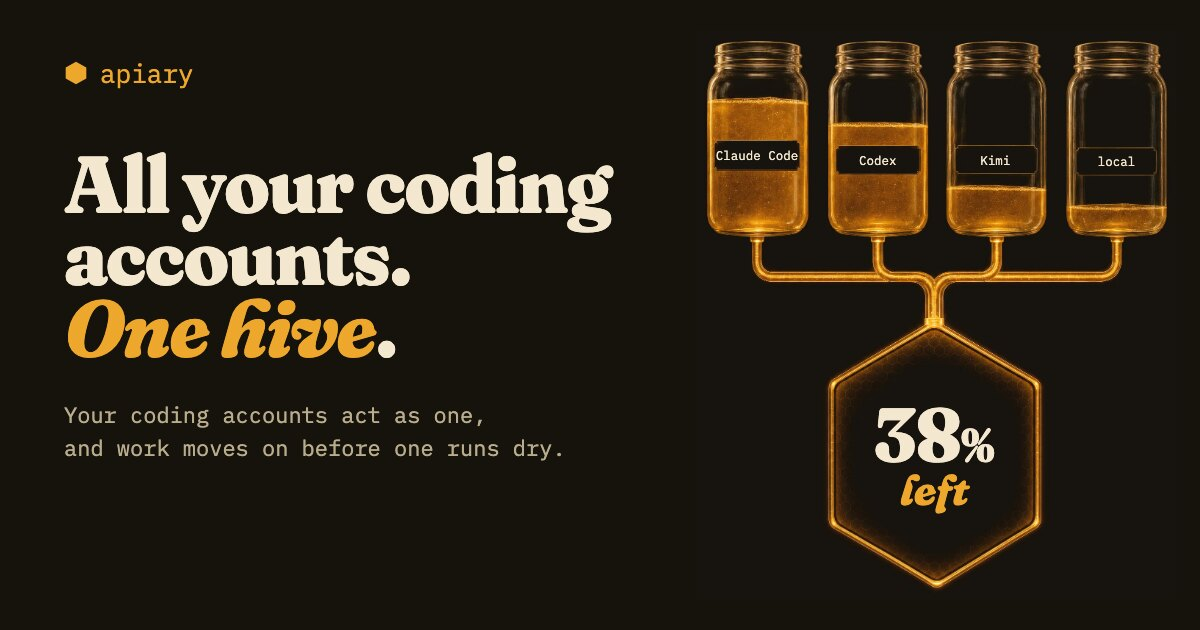
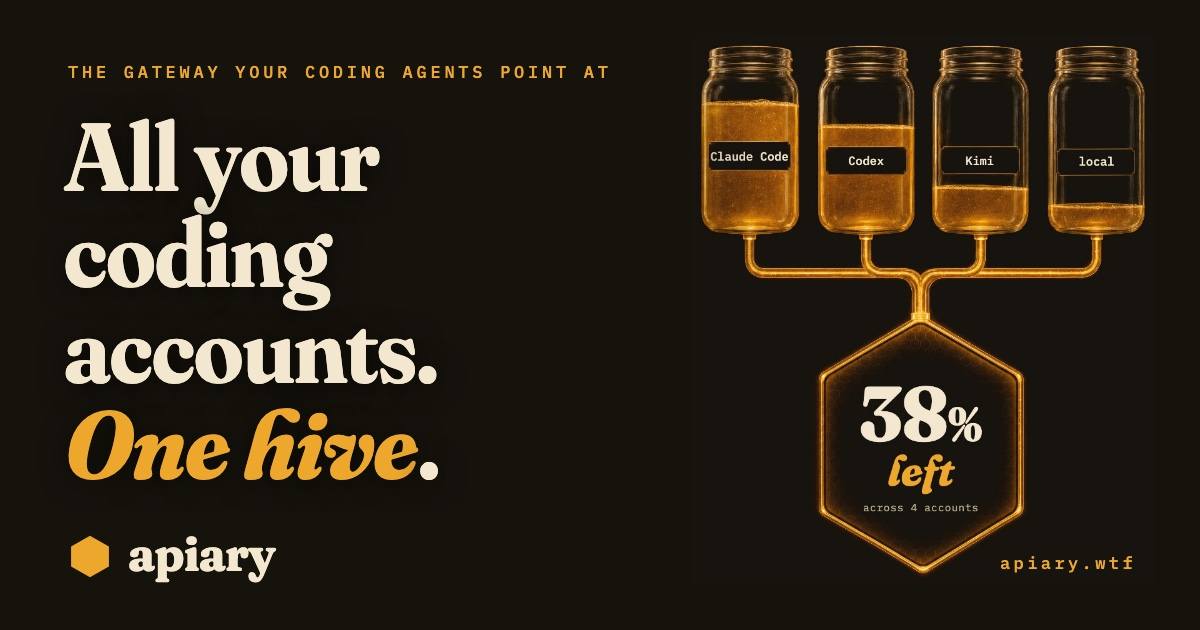
site: the front door's card joins the family, and cards keep up with pages
The front door's link-preview card is now made like every other page's:
art in og/art/front.jpg, a row in card.html, rendered by render.sh, which
now uses Playwright's own browser. AGENTS.md and the site README say a
change to a public page updates its card in the same commit, and
og_pages_test.go holds the floor: full og tags, a 1200x630 card of the
page's own, and alt text that quotes the page's current headline.

Claude-Session: https://claude.ai/code/session_017QRfxX9X5KKL28VWkkbSTT

diff --git a/site/static/index.html b/site/static/index.html
@@ -14,7 +14,7 @@
 <meta property="og:image" content="https://apiary.wtf/og/front.jpg">
 <meta property="og:image:width" content="1200">
 <meta property="og:image:height" content="630">
-<meta property="og:image:alt" content="“All your coding accounts. One hive.” Four honey jars feeding one hexagon.">
+<meta property="og:image:alt" content="“All your coding accounts. One hive.” Apiary, over four honey jars feeding one hexagon that reads 38% left.">
 <meta name="twitter:card" content="summary_large_image">
 <meta name="theme-color" content="#16130d">
 <link rel="preconnect" href="https://fonts.googleapis.com">

diff --git a/site/og/card.html b/site/og/card.html
@@ -31,6 +31,8 @@ h1 em{font-style:italic;font-weight:750;color:var(--honey)}
 <script>
 // Each page's card: its art (art/<name>.jpg), kicker and headline. A new page adds a row here and its art.
 const PAGES = {
+  front: {kicker: "The gateway your coding agents point at", size: 96,
+         headline: "All your<br>coding<br>accounts.<br><em>One hive</em>."},
   home: {kicker: "Pooled LLM capacity · owned by the hive", size: 92,
          headline: "Your idle LLM<br>hours are<br>someone else’s<br><em>crunch</em>."},
   plan: {kicker: "Business plan · November 2026", size: 108,

diff --git a/site/og_pages_test.go b/site/og_pages_test.go
@@ -1,0 +1,110 @@
+package main
+
+import (
+	"bytes"
+	"html"
+	"image/jpeg"
+	"io/fs"
+	"path"
+	"regexp"
+	"strings"
+	"testing"
+)
+
+// Every public page has its own link-preview card, and the card keeps up with
+// the page: the tags are complete, the card exists at 1200x630, and its alt
+// text quotes the page's headline. Change a headline and this fails until the
+// card (site/og, render.sh) and its tags are redone in the same commit.
+func TestEveryPageHasItsOwnCurrentPreviewCard(t *testing.T) {
+	pages, err := fs.Sub(static, "static")
+	if err != nil {
+		t.Fatal(err)
+	}
+	meta := func(doc, attr, name string) string {
+		m := regexp.MustCompile(`<meta ` + attr + `="` + regexp.QuoteMeta(name) + `" content="([^"]*)"`).FindStringSubmatch(doc)
+		if m == nil {
+			return ""
+		}
+		return html.UnescapeString(m[1])
+	}
+	first := func(doc, re string) string {
+		m := regexp.MustCompile(re).FindStringSubmatch(doc)
+		if m == nil {
+			return ""
+		}
+		return m[1]
+	}
+	cardOf := map[string]string{}
+	err = fs.WalkDir(pages, ".", func(p string, d fs.DirEntry, err error) error {
+		if err != nil || d.IsDir() || !strings.HasSuffix(p, ".html") {
+			return err
+		}
+		b, _ := fs.ReadFile(pages, p)
+		doc := string(b)
+		want := "https://apiary.wtf/" + strings.TrimSuffix(strings.TrimSuffix(p, "index.html"), "/")
+		if !strings.HasSuffix(want, "/") {
+			want += "/"
+		}
+		title := html.UnescapeString(first(doc, `<title>([^<]*)</title>`))
+		if title == "" || meta(doc, "property", "og:title") != title {
+			t.Errorf("%s: og:title %q, want the page's <title> %q", p, meta(doc, "property", "og:title"), title)
+		}
+		if c := first(doc, `<link rel="canonical" href="([^"]*)"`); c != want || meta(doc, "property", "og:url") != want {
+			t.Errorf("%s: canonical %q and og:url %q, want both %q", p, c, meta(doc, "property", "og:url"), want)
+		}
+		for _, name := range []string{"og:description", "og:site_name", "og:type"} {
+			if meta(doc, "property", name) == "" {
+				t.Errorf("%s: no %s", p, name)
+			}
+		}
+		if meta(doc, "name", "twitter:card") != "summary_large_image" {
+			t.Errorf("%s: twitter:card should be summary_large_image", p)
+		}
+
+		img := meta(doc, "property", "og:image")
+		card, ok := strings.CutPrefix(img, "https://apiary.wtf/")
+		if !ok || !strings.HasPrefix(card, "og/") || path.Ext(card) != ".jpg" {
+			t.Errorf("%s: og:image %q, want https://apiary.wtf/og/<page>.jpg", p, img)
+			return nil
+		}
+		if other, taken := cardOf[card]; taken {
+			t.Errorf("%s: shares its card %s with %s; each page gets its own", p, card, other)
+		}
+		cardOf[card] = p
+		jb, err := fs.ReadFile(pages, card)
+		if err != nil {
+			t.Errorf("%s: card %s is missing", p, card)
+			return nil
+		}
+		cfg, err := jpeg.DecodeConfig(bytes.NewReader(jb))
+		if err != nil || cfg.Width != 1200 || cfg.Height != 630 {
+			t.Errorf("%s: card %s is not a 1200x630 JPEG (%v, %dx%d)", p, card, err, cfg.Width, cfg.Height)
+		}
+		if meta(doc, "property", "og:image:width") != "1200" || meta(doc, "property", "og:image:height") != "630" {
+			t.Errorf("%s: og:image:width/height should say 1200 and 630", p)
+		}
+
+		headline := plain(first(doc, `(?s)<h1[^>]*>(.*?)</h1>`))
+		alt := plain(meta(doc, "property", "og:image:alt"))
+		if headline == "" || !strings.HasPrefix(alt, "“"+headline+"”") {
+			t.Errorf("%s: og:image:alt should open with the headline in quotes, “%s”; it says %q. Redo the card if the headline changed.", p, headline, alt)
+		}
+		return nil
+	})
+	if err != nil {
+		t.Fatal(err)
+	}
+	if len(cardOf) < 3 {
+		t.Errorf("found %d pages; expected the front door, /about/ and /plan/ at least", len(cardOf))
+	}
+}
+
+// plain is text as a reader sees it: no tags, entities decoded, one space
+// between words, none before punctuation, and one kind of apostrophe.
+func plain(s string) string {
+	s = regexp.MustCompile(`<[^>]*>`).ReplaceAllString(s, " ")
+	s = html.UnescapeString(s)
+	s = strings.Join(strings.Fields(s), " ")
+	s = regexp.MustCompile(` ([.,!?;:])`).ReplaceAllString(s, "$1")
+	return strings.ReplaceAll(s, "’", "'")
+}

diff --git a/site/README.md b/site/README.md
@@ -1,17 +1,21 @@
 # Apiary landing site (stub)
 
-Two static pages (the landing page and the business plan) + an interest sign-up
-form, served by one Go binary. Its job is to gauge interest and collect rough
+Three static pages (the front door, the long page and the business plan) + an
+interest sign-up form, served by one Go binary. Its job is to gauge interest and collect rough
 profiles to ground user stories (see [`../docs/DESIGN.md`](../docs/DESIGN.md)
 §6) — not to onboard anyone.
 
-- `GET /` — the page (embedded at build time)
+- `GET /` — the front door: one screen, never scrolls, for a signed-out visitor
+  (a signed-in one gets the members app's console there instead). Embedded at
+  build time; its spec is [`../docs/design/front-door/`](../docs/design/front-door/)
+- `GET /about/` — the long page, with the waggle-list form at `#join`
 - `GET /plan/` — the business plan, embedded the same way (its spec is
   [`../docs/design/plan/`](../docs/design/plan/))
 - `POST /signup` — appends one JSON line to `SIGNUPS_FILE`
   (default `data/signups.jsonl`); honeypot field + 10s per-IP throttle,
   16 KiB body cap, everything clipped server-side
 - `GET /healthz` — liveness
+- `www.apiary.wtf` redirects to `apiary.wtf`, path and query kept
 
 No accounts, no cookies, no analytics. The stored record is exactly the form
 fields + UTC timestamp + a 12-hex-char IP hash (dedup signal, not identity).
@@ -36,8 +40,14 @@ hash use it).
 
 Each page's preview card is `static/og/<page>.jpg` (1200x630), named by the page's `og:image`.
 `og/card.html` lays out a card: the page's art from `og/art/<page>.jpg`, its kicker and its headline,
-in the site's own fonts. `og/render.sh [page ...]` screenshots it with Google Chrome into
+in the site's own fonts. `og/render.sh [page ...]` screenshots it with Playwright's own browser into
 `static/og/`. A new page adds a row to `PAGES` in `card.html`, its art, and its `og:*` tags.
+
+**A change to a public page updates its card in the same commit.** A new or changed headline, pitch
+or look means new art or a new `PAGES` row, a fresh `render.sh`, and `og:*` tags that say the same
+thing as the page (title, description, alt text). `og_pages_test.go` holds the floor: every page has
+a full set of tags, its own card at 1200x630, and alt text that opens with the page's headline in
+quotes, so a headline changed without its card fails the build.
 
 Two cards are for the members app that shares apiary.wtf: `signin` for its `/sign-in` page and
 `invite` for every `/join/...` link. They live here so `/og/` serves every card; the app's pages
@@ -50,7 +60,7 @@ page's art, so its first frame is the still card; it fades back into that frame 
 
 ## The keepers
 
-The landing page's "the keepers" section, "Meet your fellow keepers", introduces four beekeepers, each
+The long page's (`/about/`) "the keepers" section, "Meet your fellow keepers", introduces four beekeepers, each
 a kind of person with more than one account, as if they were members. They are types, not customers:
 pun names, server racks for hives and a honey-cooling joke keep them plainly parody. Nobody real is
 quoted or pictured, and no keeper may be rewritten to read as a real customer's review.

diff --git a/AGENTS.md b/AGENTS.md
@@ -1,0 +1,10 @@
+# Working in this repo
+
+- The repo is public. No member names or emails, and no private hostnames or addresses, in code,
+  docs or commit messages.
+- The site: read `site/README.md` first.
+- **Every public page keeps its link-preview card current.** Changing a page's headline, pitch or
+  look updates its card (`site/og/`: art, the `PAGES` row in `card.html`, then `render.sh`) and its
+  `og:*` tags in the same commit. `site/og_pages_test.go` fails when a page's tags are incomplete,
+  its card is missing or not 1200x630, two pages share a card, or the card's alt text no longer
+  quotes the page's headline.
